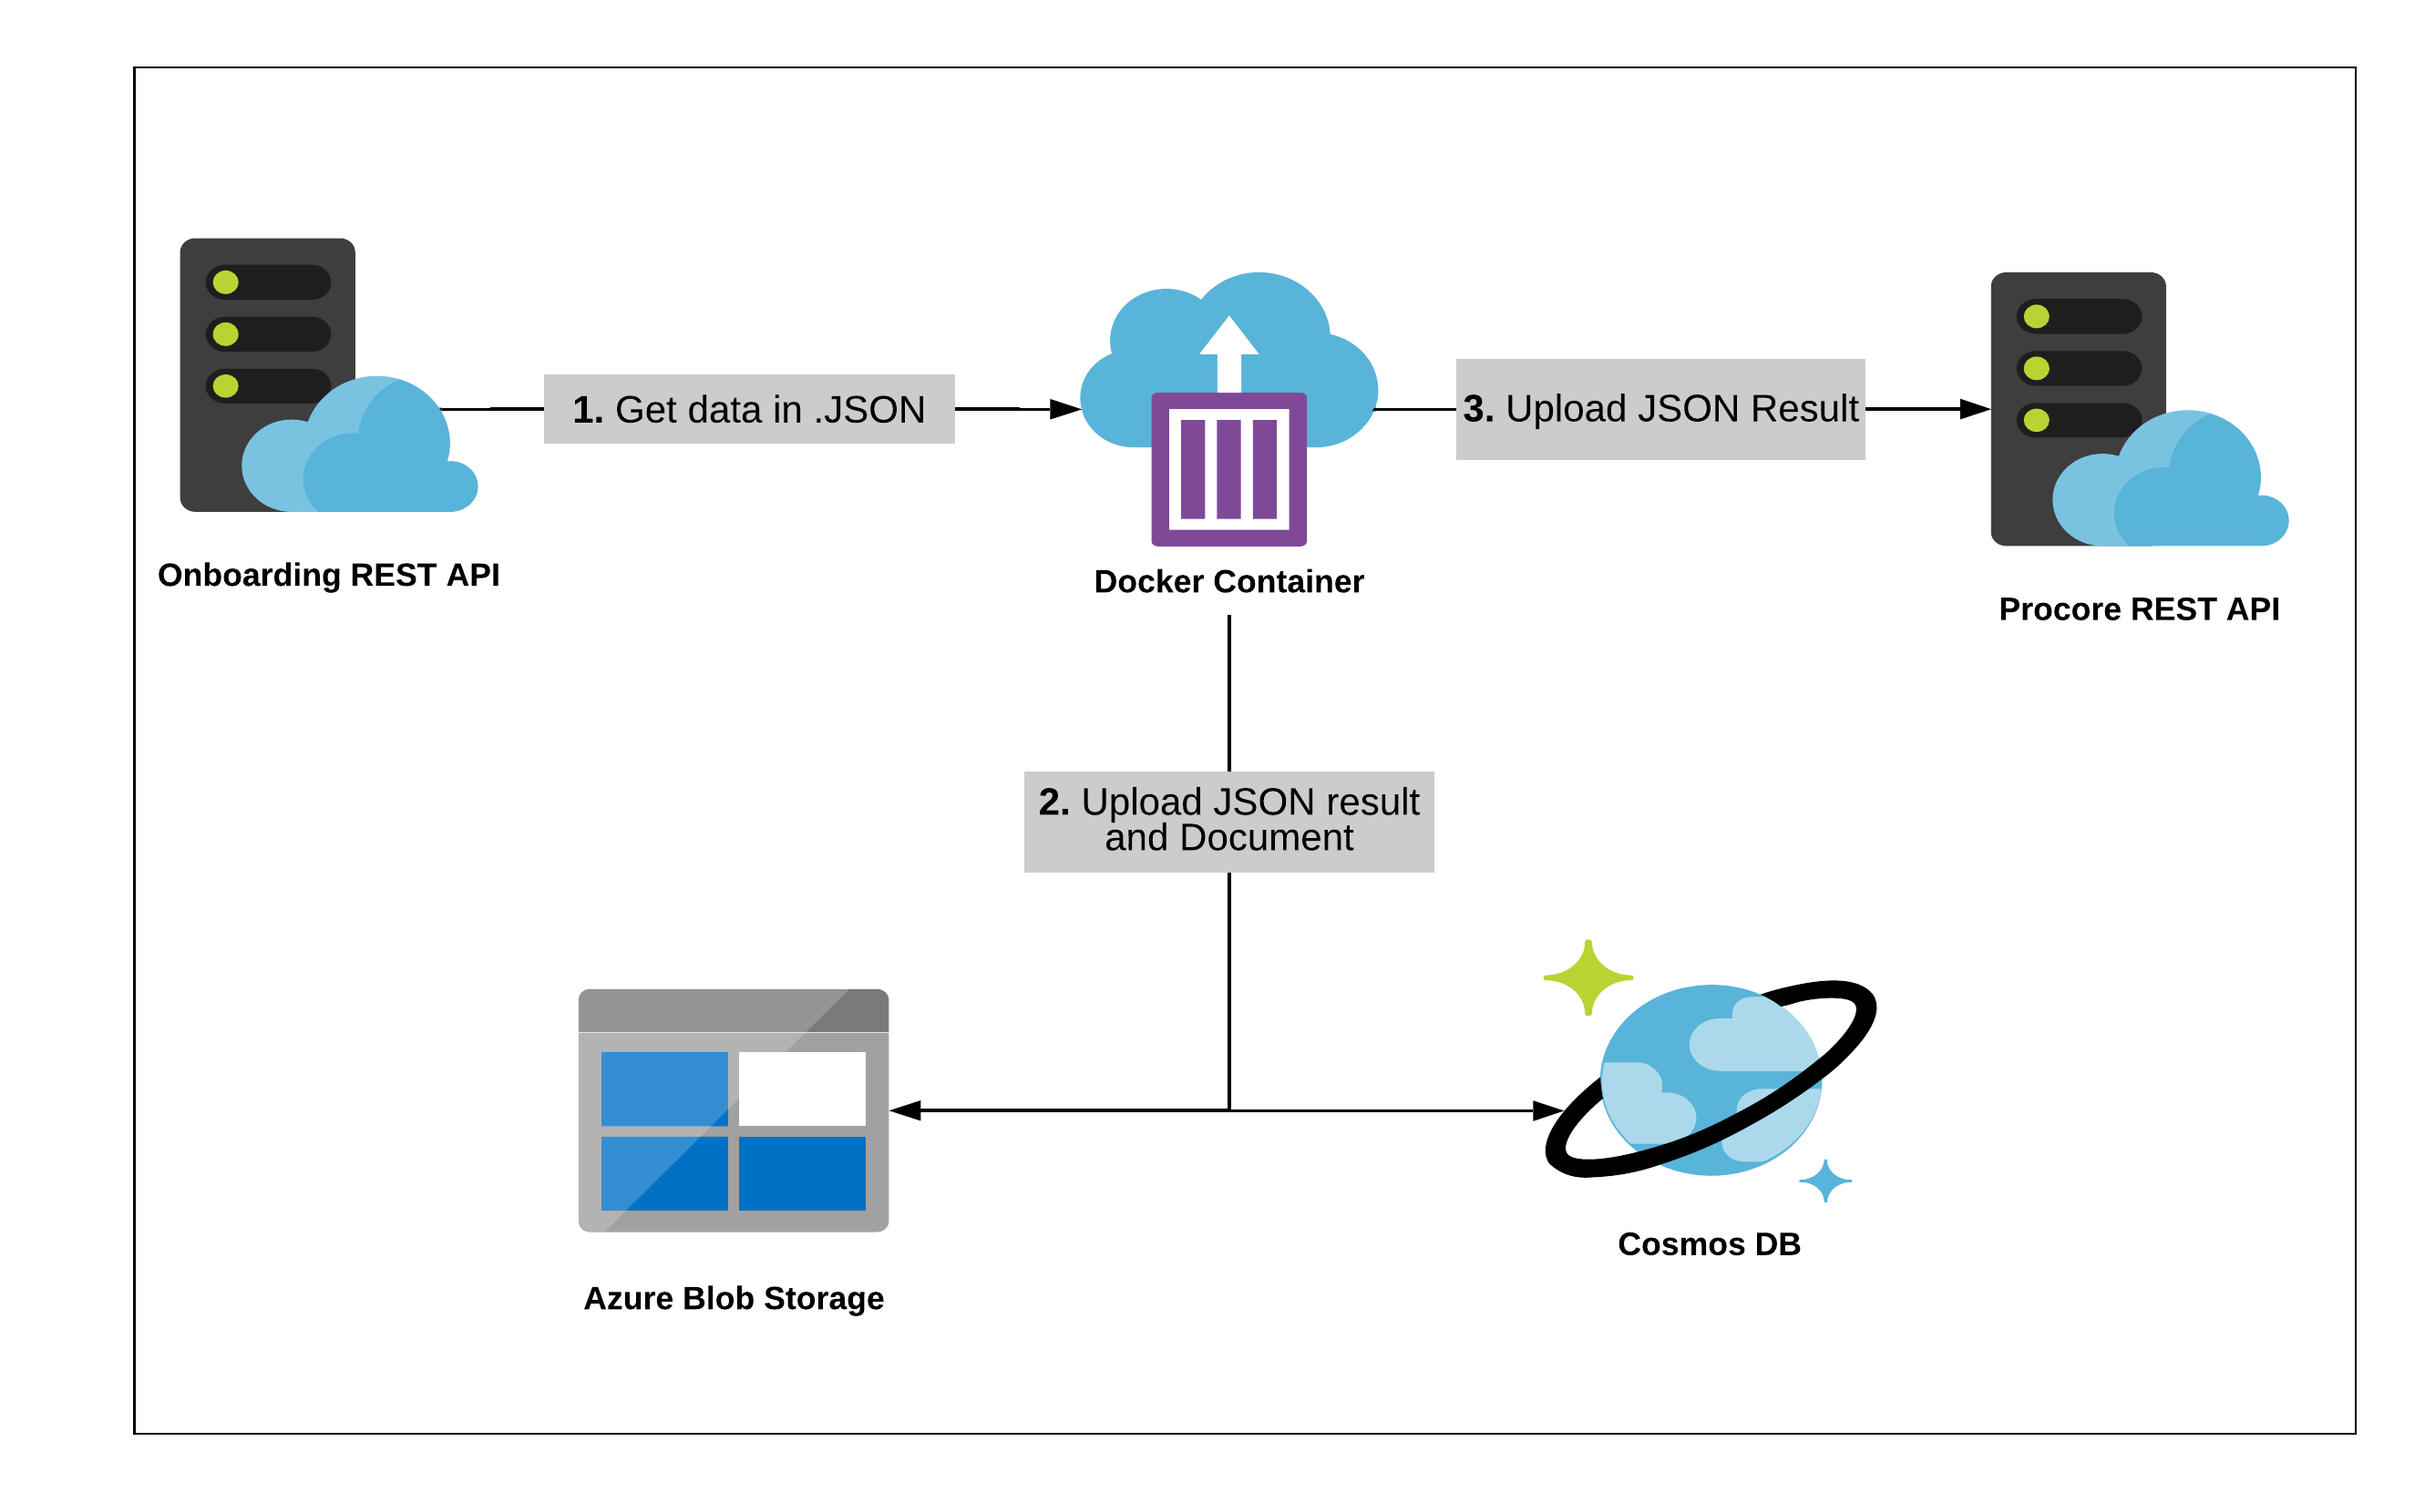
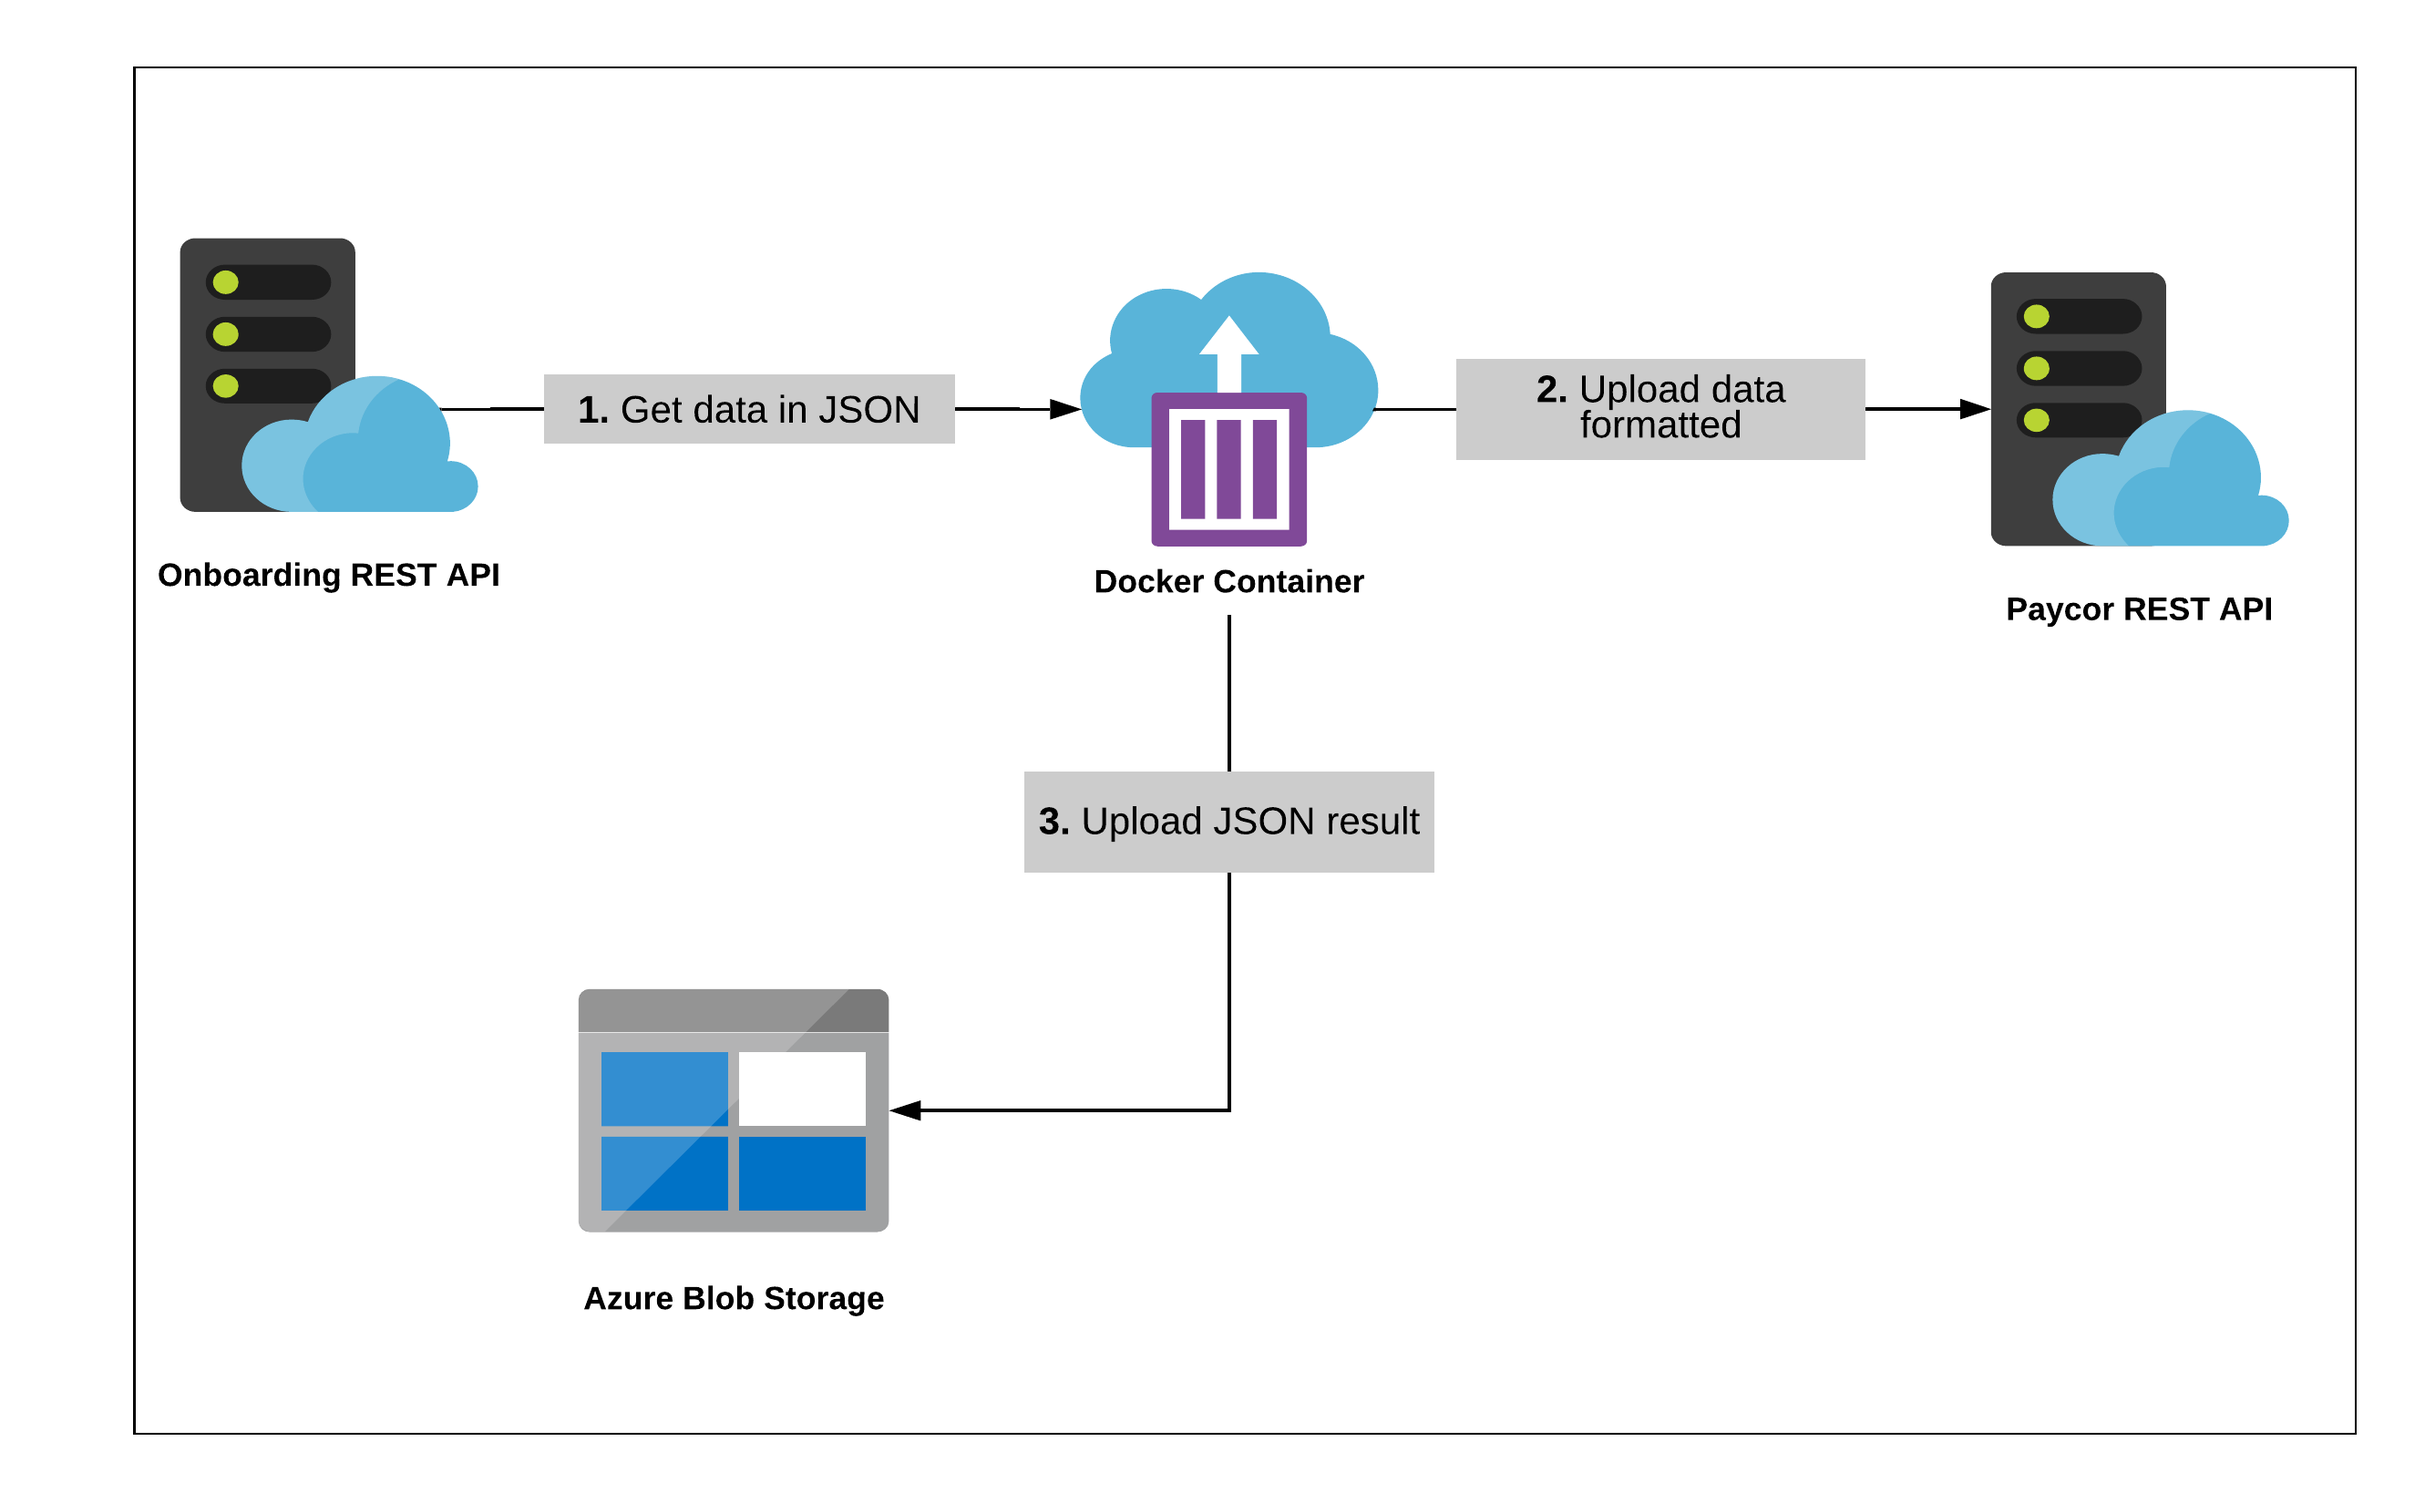
WIP: Documentation

diff --git a/README.md b/README.md
@@ -1,1 +1,54 @@
-# onboarding-paycor--intechideas
+# Onboarding to Paycor - Intechideas
+This project migrate data from Onboarding to Paycor.
+
+## Environment Variables
+
+Copy the `.env.example` file into `.env`. Fill the following variables:
+
+### Parameters
+
+| Option                                 | Description                                                    |
+| -------------------------------------- | -------------------------------------------------------------- |
+| CUSTOMER                               | Customer Name                                                  |
+| DEBUG                                  | `1` for true DEBUG and `0` for false                           |
+| FILE_ROOT_DIRECTORY                    | Name and path of the folder where the information is stored    |
+| RESULT_JSON                            | Result `.json`                                                 |
+| JSON_CONFIG                            | File name for configuration in .JSON Format                    |
+| ENVIROMENT_MODE                        | `Development` or `Production`                                  |
+| PROJECT                                | Project name                                                   |
+| BIRDDOG_BASE_URL                       | Primary URL for BIRDDOG                                        |
+| BIRDDOG_LOGIN_URL                      | Partial Login URL                                              |
+| BIRDDOG_GET_EMPLOYEES_URL              | Partial URL of employees                                       |
+| BIRDDOG_GET_DOCUMENTS_URL              | Partial URL of Documents                                       |
+| BIRDDOG_PAYLOAD_APIKEY                 | BIRDDOG Credentials                                            |
+| BIRDDOG_PAYLOAD_USERNAME               | BIRDDOG Credentials                                            |
+| BIRDDOG_PAYLOAD_PASSWORD               | BIRDDOG Credentials                                            |
+| BIRDDOG_COMPANY_CODE                   | BIRDDOG Company Code                                           |
+| BIRDDOG_DOCUMENTS_DIRECTORY            | Name and path of the folder where the information is stored    |
+| AZURE_ACCOUNT_CONN_STRING              | Blob storage connection string                                 |
+| AZURE_BLOB_CONTAINER_PROJECT_NAME      | Blob storage container name                                    |
+| AZURE_BLOB_CONTAINER_CLIENT_NAME       | Blob storage client name                                       |
+
+## Diagram
+
+![Onboarding to Paycor Diagram](docs/img/onboarding-paycor.png)
+
+## Run
+
+* `./scripts/docker_run.sh`
+
+## Build
+
+* `./scripts/docker_build.sh`
+
+## Pull
+
+* `./scripts/docker_pull.sh`
+
+## Push
+
+* `./scripts/docker_push.sh`
+
+## Clean
+
+* `./scripts/clean.sh`
